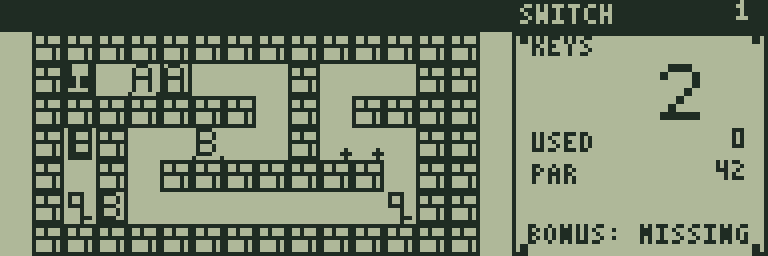
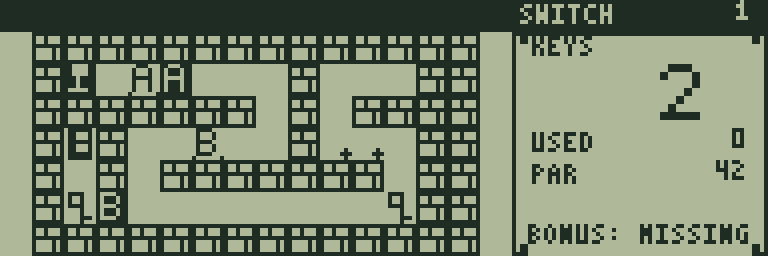
Distinguish closed SWITCH MAZE doors with inverse A and B labels

Changed region(s): [[0.1875, 0.25, 0.25, 0.375], [0.125, 0.75, 0.1875, 0.875]]

diff --git a/games/switch-maze/generate.py b/games/switch-maze/generate.py
@@ -16,8 +16,8 @@ for n in range(12):
     elif n in (2,3):b.rect(1,0,4,4);b.line(4,3,4,7);b.line(4,6,6,6)
     elif n in (4,5):b.text('A' if n==4 else 'B',1,0);b.dot(0,7);b.dot(7,7)
     elif n in (6,7):
-        b.line(0,0,0,7);b.line(7,0,7,7);b.line(0,7,7,7)
-        b.text('A' if n==6 else 'B',1,0)
+        b.rect(0,0,8,8,1,True)
+        b.text('A' if n==6 else 'B',1,0,c=0)
     elif n==8:b.rect(1,0,6,8);b.text('E',2,0)
     elif n in (9,10):
         b.line(0,0,7,0);b.line(0,7,7,7);b.dot(0,3);b.dot(7,4)

diff --git a/docs/games/wiki/SWITCH-MAZE.md b/docs/games/wiki/SWITCH-MAZE.md
@@ -2,7 +2,7 @@
 
 [ゲーム一覧](https://github.com/zabaglione/jr800-web-emulator/wiki) / [パズル・論理](https://github.com/zabaglione/jr800-web-emulator/wiki/Genre-Logic) · モダン
 
-[ビルド可能なソース](https://github.com/zabaglione/jr800-web-emulator/tree/main/games/switch-maze)
+[遊ぶ](https://zabaglione.github.io/jr800-web-emulator/?program=switch-maze) · [ビルド可能なソース](https://github.com/zabaglione/jr800-web-emulator/tree/main/games/switch-maze)
 
 ![タイトル画面](https://raw.githubusercontent.com/zabaglione/jr800-web-emulator/main/docs/games/screenshots/switch-maze/title.png)
 
@@ -10,7 +10,7 @@
 
 ## 遊び方
 
-方向キーで移動します。鍵2個を取り、出口へ着くとクリアです。A・Bは床にある2系統のスイッチです。Aを踏むとAの文字がある扉、Bを踏むとBの文字がある扉が開閉します。閉じた扉は文字を囲む枠で表示し、開くと中央が空いた絵になります。同じスイッチをもう一度踏むと閉じます。追加目標は、2か所の印を通ることです。後半では同じスイッチを複数回使う経路も必要になります。
+方向キーで移動します。鍵2個を取り、出口へ着くとクリアです。A・Bは床にある2系統のスイッチです。Aを踏むとAの文字がある扉、Bを踏むとBの文字がある扉が開閉します。床のスイッチは明るい地面に黒い文字、閉じた扉は黒地に白抜きのA・Bで表示します。扉が開くと中央が空いた絵になります。同じスイッチをもう一度踏むと閉じます。追加目標は、2か所の印を通ることです。後半では同じスイッチを複数回使う経路も必要になります。
 
 閉じた扉や壁への入力は手数に含めません。RETURNメニューから移動と扉の状態を1手戻せます。
 

diff --git a/games/switch-maze/README.md b/games/switch-maze/README.md
@@ -2,7 +2,7 @@
 
 [ゲーム一覧](https://github.com/zabaglione/jr800-web-emulator/wiki) / [パズル・論理](https://github.com/zabaglione/jr800-web-emulator/wiki/Genre-Logic) · モダン
 
-[ビルド可能なソース](https://github.com/zabaglione/jr800-web-emulator/tree/main/games/switch-maze)
+[遊ぶ](https://zabaglione.github.io/jr800-web-emulator/?program=switch-maze) · [ビルド可能なソース](https://github.com/zabaglione/jr800-web-emulator/tree/main/games/switch-maze)
 
 ![タイトル画面](../../docs/games/screenshots/switch-maze/title.png)
 
@@ -10,7 +10,7 @@
 
 ## 遊び方
 
-方向キーで移動します。鍵2個を取り、出口へ着くとクリアです。A・Bは床にある2系統のスイッチです。Aを踏むとAの文字がある扉、Bを踏むとBの文字がある扉が開閉します。閉じた扉は文字を囲む枠で表示し、開くと中央が空いた絵になります。同じスイッチをもう一度踏むと閉じます。追加目標は、2か所の印を通ることです。後半では同じスイッチを複数回使う経路も必要になります。
+方向キーで移動します。鍵2個を取り、出口へ着くとクリアです。A・Bは床にある2系統のスイッチです。Aを踏むとAの文字がある扉、Bを踏むとBの文字がある扉が開閉します。床のスイッチは明るい地面に黒い文字、閉じた扉は黒地に白抜きのA・Bで表示します。扉が開くと中央が空いた絵になります。同じスイッチをもう一度踏むと閉じます。追加目標は、2か所の印を通ることです。後半では同じスイッチを複数回使う経路も必要になります。
 
 閉じた扉や壁への入力は手数に含めません。RETURNメニューから移動と扉の状態を1手戻せます。
 
